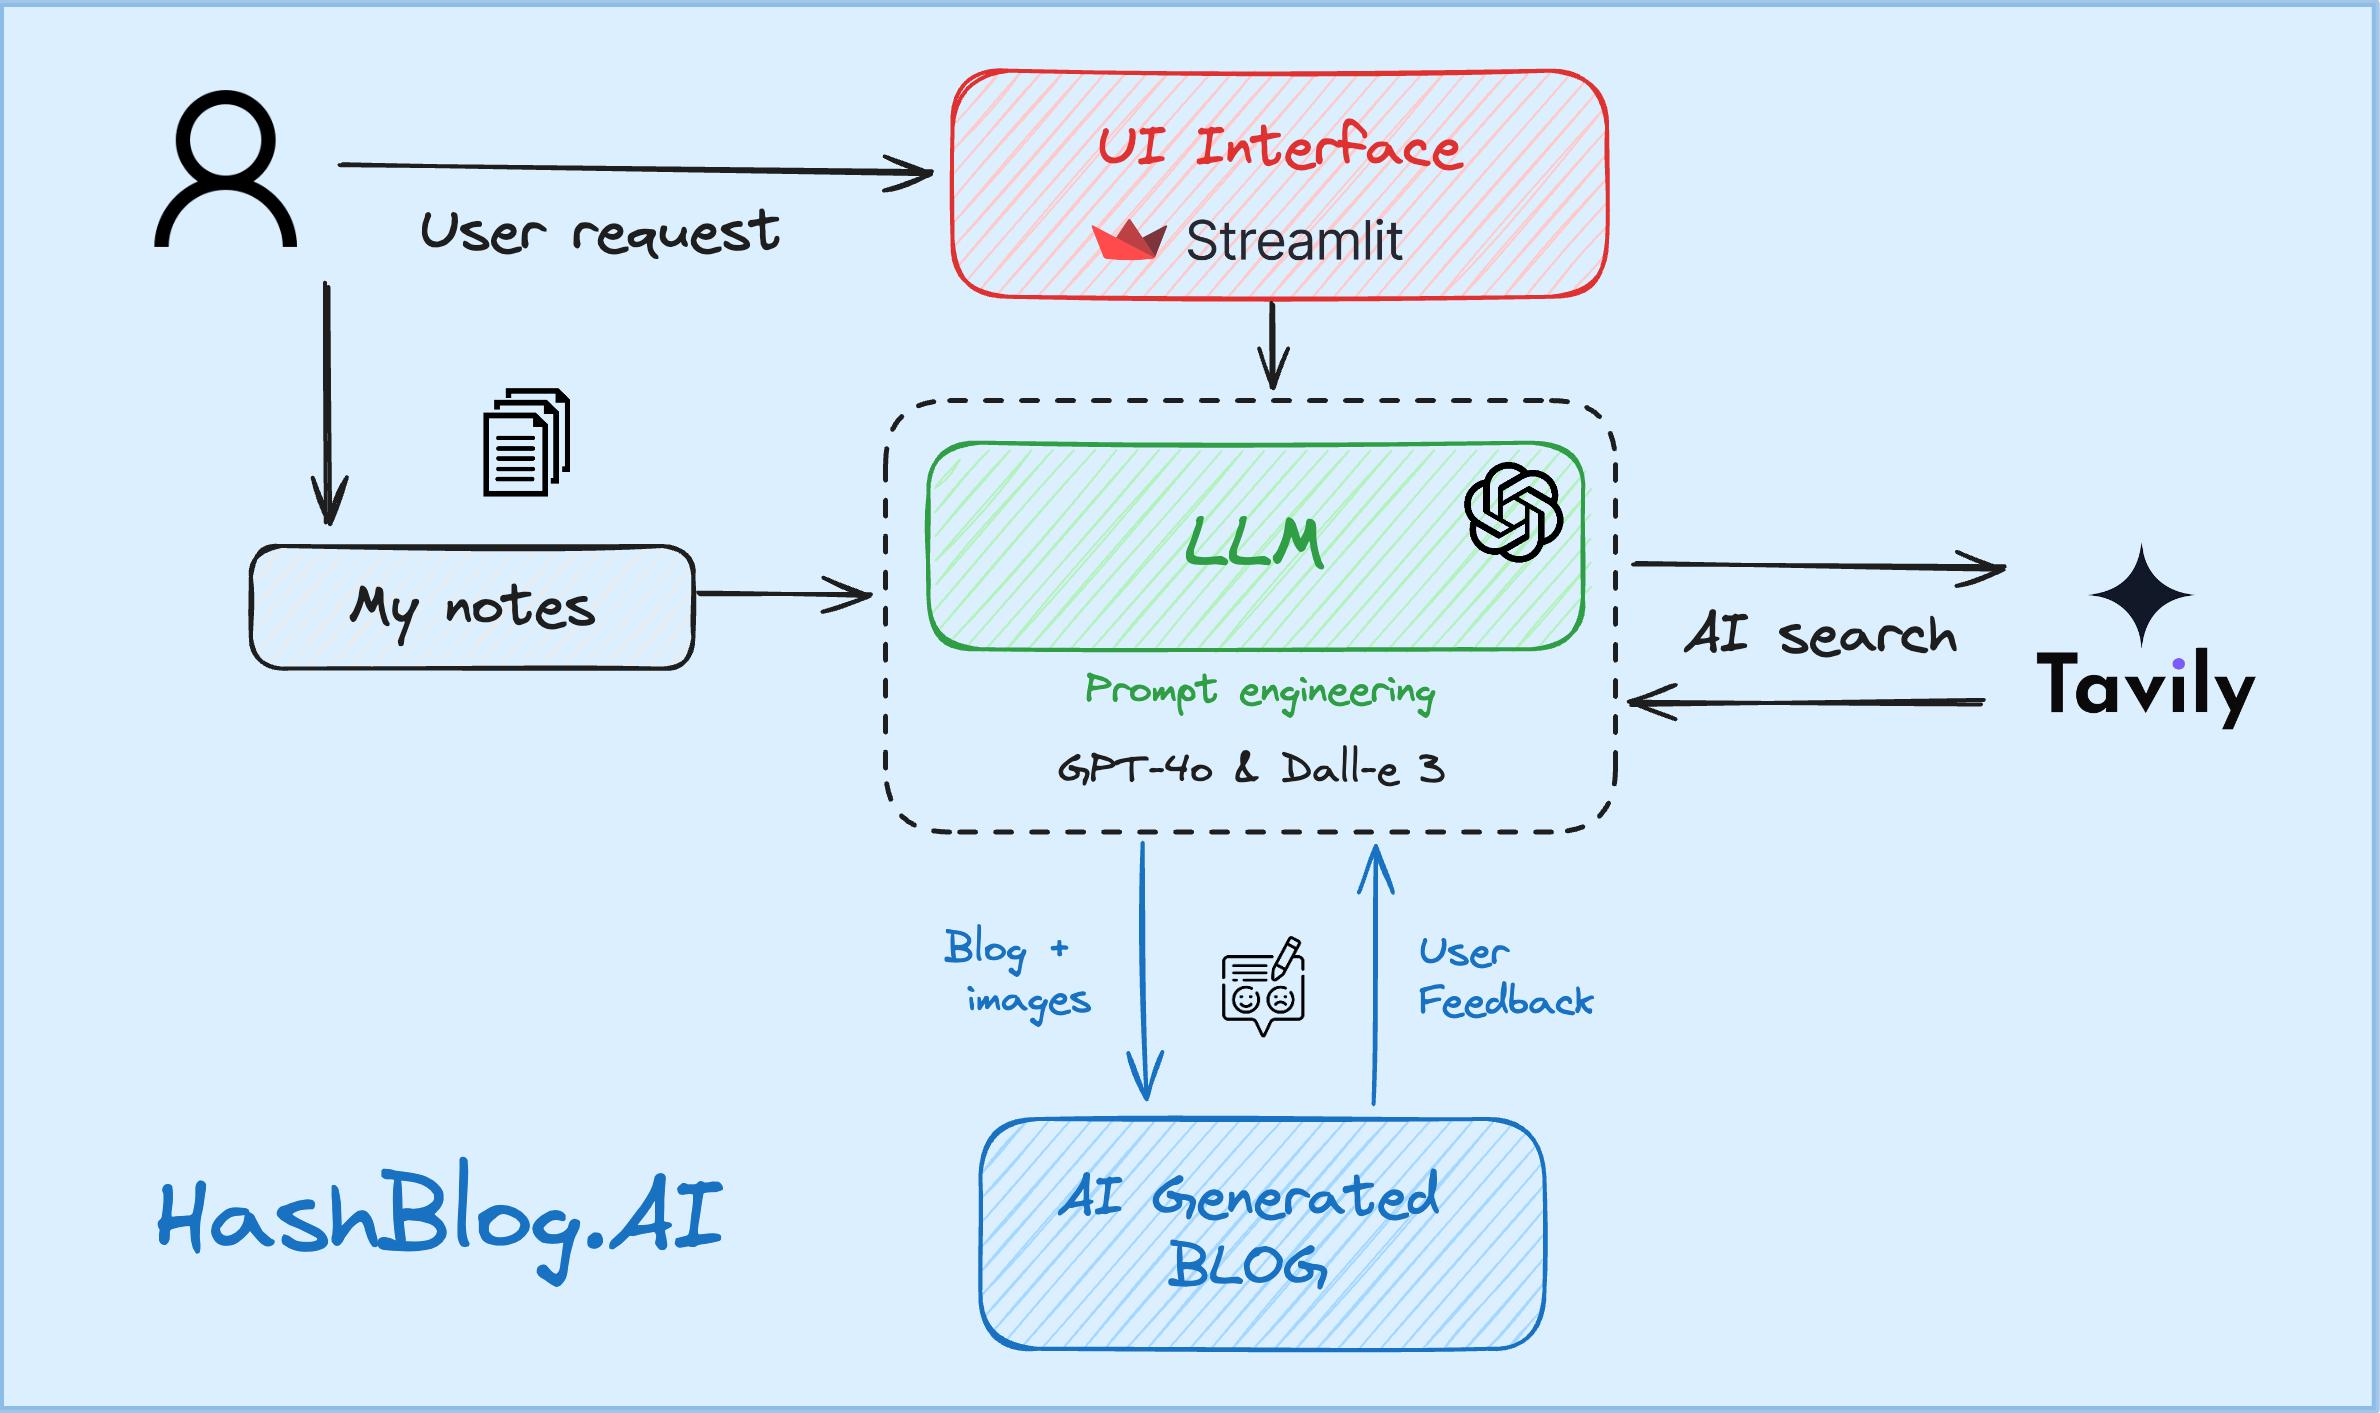
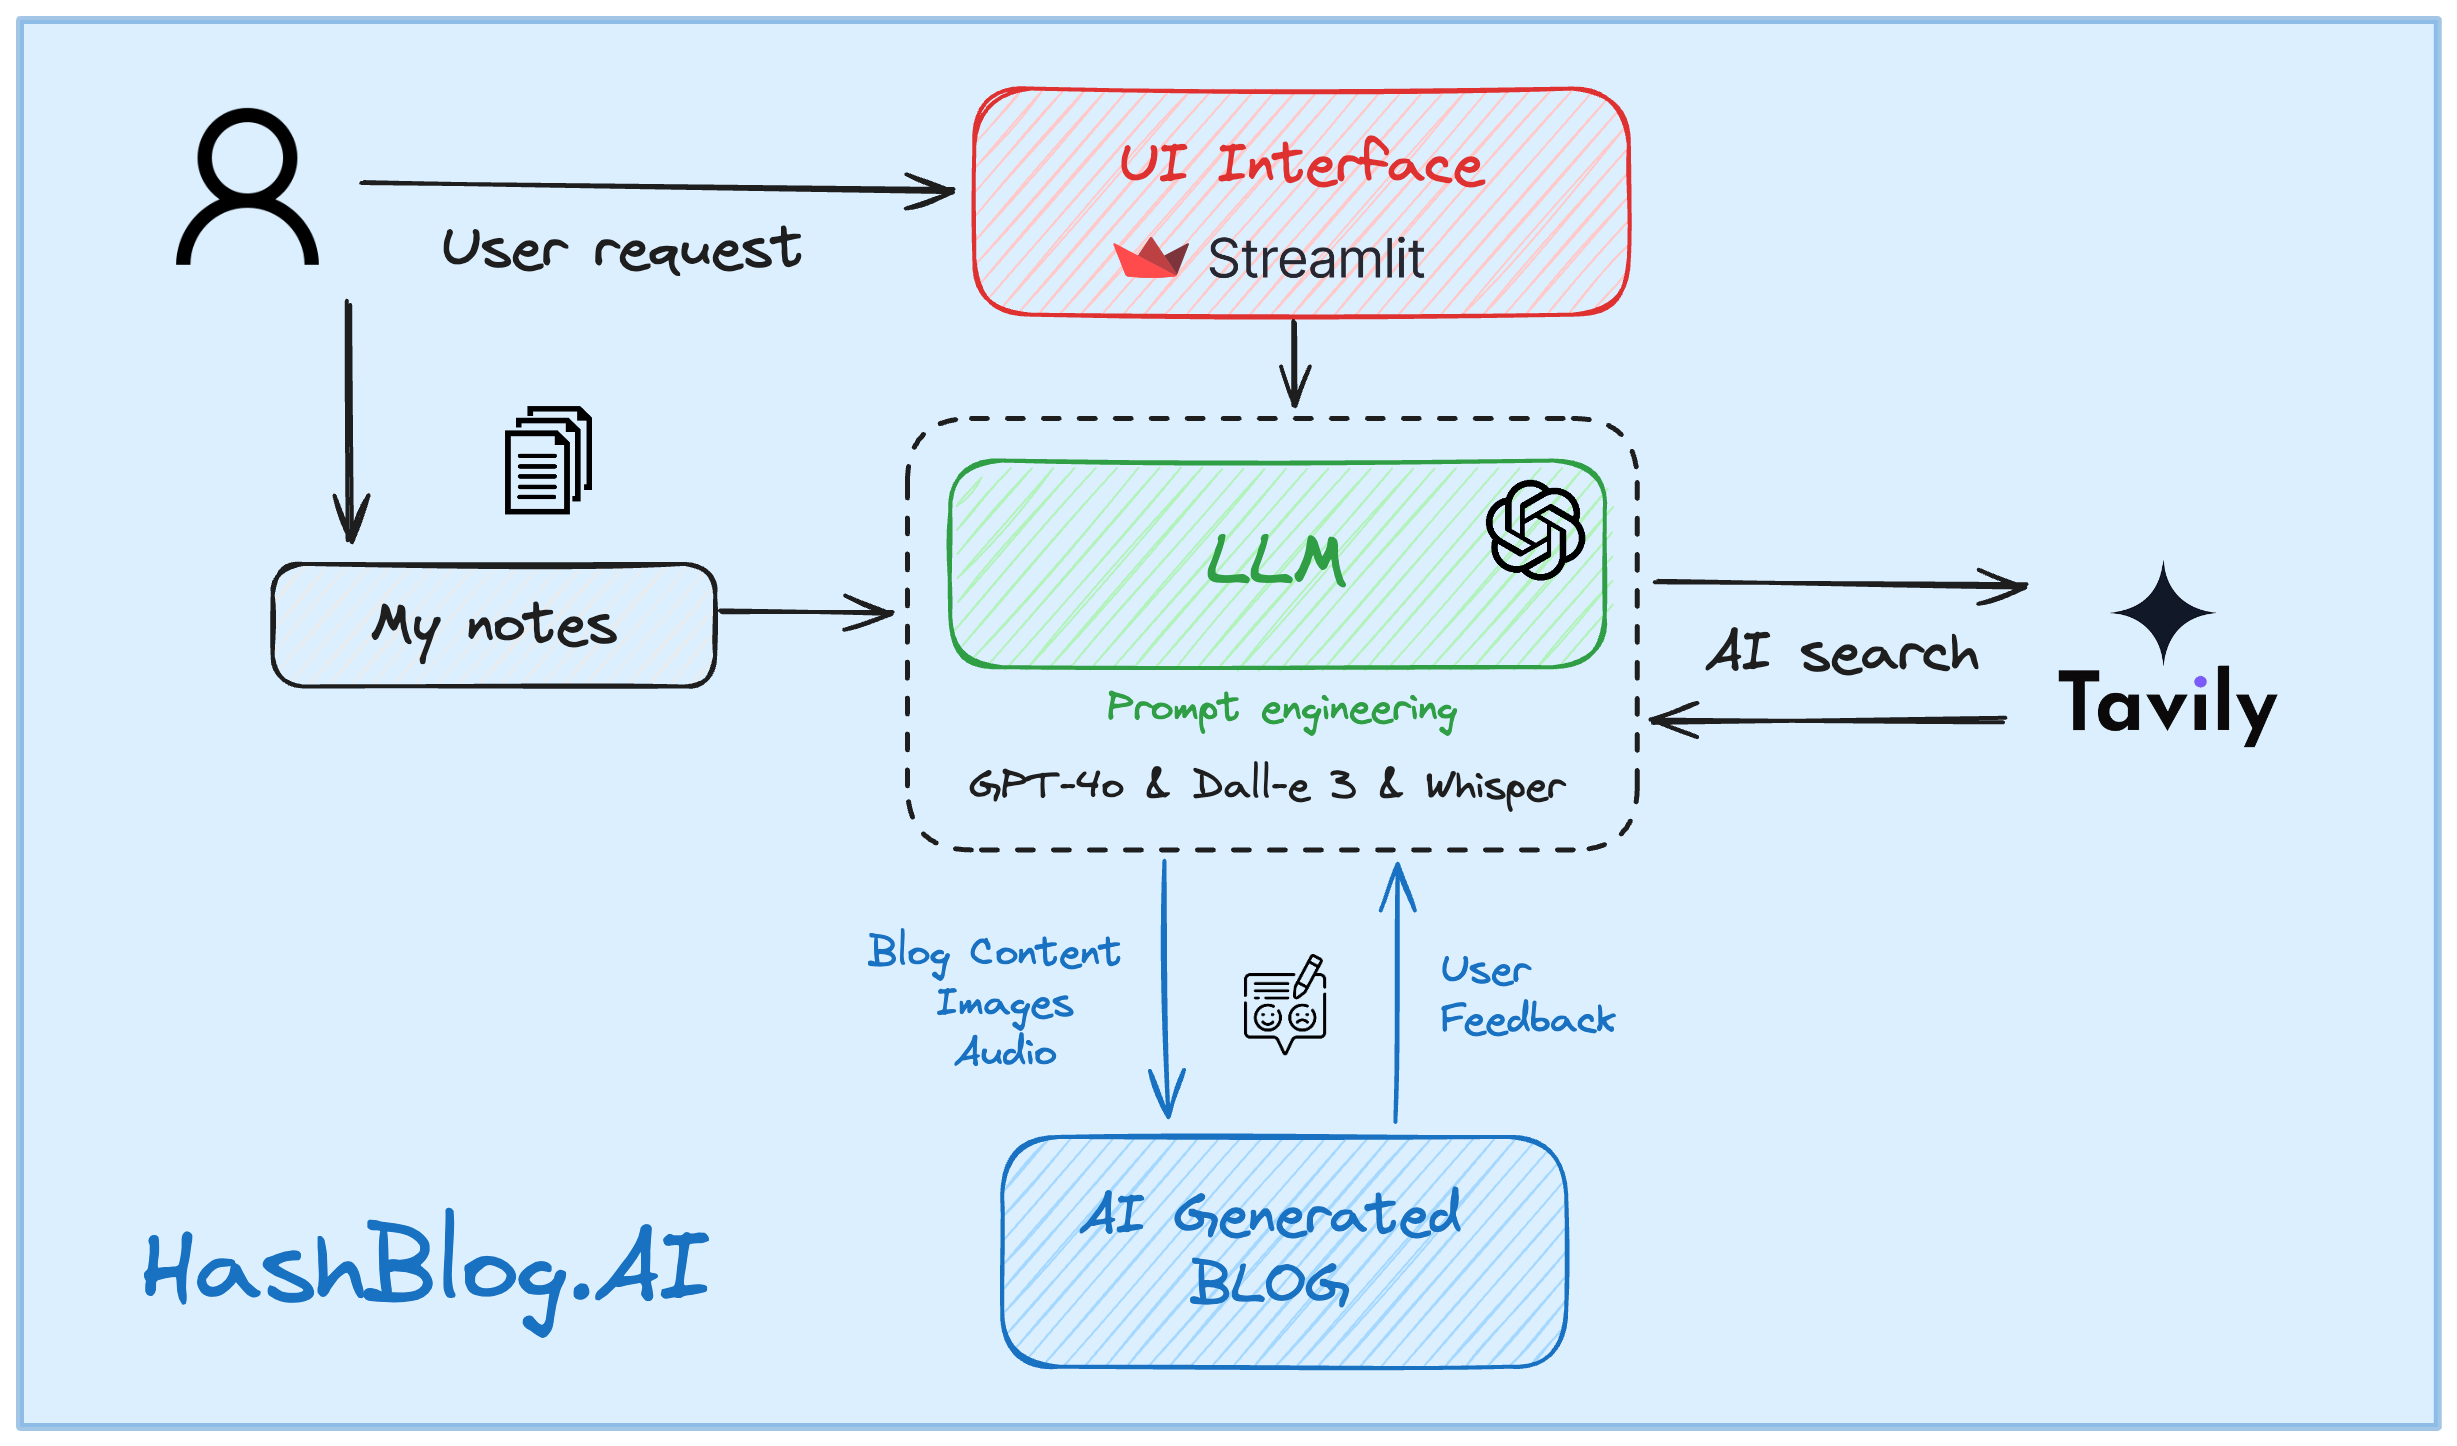
add voice blog

diff --git a/app.py b/app.py
@@ -2,31 +2,43 @@ import asyncio
 import streamlit as st
 from src.modules.model import initialise_model, llm_generate, llm_stream, generate_image
 from src.modules.search import ai_search, initialise_tavily
-from src.modules.prompt import search_query_prompt, search_blog_prompt, banner_image_prompt
-from src.components.ui import header, example_questions, regenerate_blog, upload_document
-from src.modules.utils import init_session_state, parse_content
+from src.modules.prompt import search_query_prompt, search_blog_prompt, banner_image_prompt, audio_blog_prompt
+from src.modules.utils import init_session_state, parse_content, copy_to_clipboard
+from src.modules.speech import stt, tts
+from src.components.ui import example_questions, regenerate_blog, upload_document
 from src.components.sidebar import side_info
+from streamlit_tags import st_tags
 
 def handle_search_context():
     if st.session_state.blog_content is None and st.session_state.question is None:
+        st.info("###### 👋 Welcome to HashBlogs.ai ✨ A playground to generate blog content using AI companion 🚀")
         if not st.session_state.search_context:
             if st.button("📚 Add your notes"):
                 upload_document()
         else:
             if st.button("🗑 Remove your notes"):
                 st.session_state.search_context = None
-
+        st_tags(
+            label='Enter Instructions:',
+            text='Press enter to add more instructions',
+            value=['Include tl:dr', 'Add emojis', 'Include key points', 'Use images'],
+            maxtags=20,
+            key='blog_instructions'
+        )
         question_input = st.text_area(
             "Enter your idea 👇",
-            placeholder="Type here... Eg: How to make perfect coffee?",
+            placeholder="Type here...Eg: How to make a perfect cup of coffee?",
+            help="Provide add your question or idea to generate blog content",
         )
         if question_input:
             st.session_state.question = question_input
         example_questions()
+        if voice_question_input := stt():
+            st.session_state.question = voice_question_input
 
 async def fetch_search_results():
     if st.session_state.question and st.session_state.blog_content is None and not st.session_state.search_context:
-        with st.spinner("AI is working. Please wait."):
+        with st.spinner("AI is working 🖨. Please wait..."):
             search_query = await llm_generate(search_query_prompt(st.session_state.question))
             search_results = ai_search(search_query)
         if search_results["results"]:
@@ -51,6 +63,7 @@ def display_search_context():
                     llm_stream(
                         search_blog_prompt(
                             st.session_state.question,
+                            st.session_state.blog_instructions,
                             st.session_state.search_context,
                             st.session_state.search_images,
                             st.session_state.blog_content,
@@ -62,7 +75,7 @@ def display_search_context():
                     st.session_state.blog_content_regenerate = None
                 st.rerun()
 
-def display_blog_content():
+async def display_blog_content():
     if st.session_state.blog_content:
         title, tldr = parse_content(st.session_state.blog_content)
         with st.container(height=710, border=True):
@@ -79,7 +92,7 @@ def display_blog_content():
                         st.image(st.session_state.blog_banner, use_column_width=True)
                     st.markdown(st.session_state.blog_content)
 
-            col1, col2, _ = st.columns([3, 3, 6])
+            col1, col2, _, col3 = st.columns([3, 3, 3, 3])
             if col1.button(f"📝 {'Save' if st.session_state.blog_content_edit else 'Edit'}", use_container_width=True):
                 if st.session_state.blog_content_edit:
                     st.session_state.blog_content = new_blog_content
@@ -90,17 +103,29 @@ def display_blog_content():
                     st.rerun()
             if col2.button("🔄 Re Generate", use_container_width=True, type="primary"):
                 regenerate_blog()
+            if col3.button("📋 Copy Blog", use_container_width=True):
+                copy_to_clipboard(st.session_state.blog_content)
+
+        if st.session_state.blog_audio:
+            st.audio(st.session_state.blog_audio)
+        else:
+            if st.button("🔊 Listen to Blog"):
+                with st.spinner("AI is cooking 🍱. Please wait..."):
+                    audio_script = await llm_generate(audio_blog_prompt(st.session_state.blog_content))
+                    st.session_state.blog_audio = tts(audio_script)
+                st.rerun()
+            
 
 async def main():
+    st.title("#⃣ AI.:blue[Playground]")
     init_session_state()
-    header()
     side_info()
     initialise_model()
     initialise_tavily()
     handle_search_context()
     await fetch_search_results()
     display_search_context()
-    display_blog_content()
+    await display_blog_content()
 
 if __name__ == "__main__":
     st.set_page_config(page_title="HashBlogs.ai", page_icon="✨")

diff --git a/src/modules/prompt.py b/src/modules/prompt.py
@@ -15,6 +15,19 @@ def search_query_prompt(user_query):
         )
     )
 
+def audio_blog_prompt(blog_content):
+    return (
+        SystemMessage(
+            content=f"Role: Create a summarized script like one person narrating about a blog\n"
+                    f"Task: Given a blog content convert it to monologue script\n"
+                    f"Rule: Make it human like, simple, giving complete overview of the blog in less than 4000 characters only.\n"
+        ),
+        HumanMessage(
+            content=f"Blog Content: ```{blog_content}``` .\n"
+                    f"Audio Script: "
+        )
+    )
+
 def banner_image_prompt(title, tldr):
     prompt = f"You have to create a banner image for the blog post with title {title}. The image should be engaging, creative."
     f"Here is the short summary of the blog post: {tldr}"
@@ -22,7 +35,7 @@ def banner_image_prompt(title, tldr):
     f"Dont not include any text in the image."
     return prompt
 
-def search_blog_prompt(user_query, search_result, images, blog_content=None, feedback=None):
+def search_blog_prompt(user_query, blog_instructions, search_result, images, blog_content=None, feedback=None):
     current_date = time.strftime("%Y-%m-%d")
     image_prompt = []
     if images:
@@ -47,6 +60,7 @@ def search_blog_prompt(user_query, search_result, images, blog_content=None, fee
                     "text": f"User question: ```{user_query}``` .\n"
                             f"Search result: ```{json.dumps(search_result)}```\n\n"
                             f"{'Images:'+json.dumps(images) if images else ''}\n\n"
+                            f"{'User blog instructions:'+json.dumps(blog_instructions) if blog_instructions else ''}\n\n"
                             f"Add only necessary images in the blog only if needed.\n"
                             f"Must be engaging, creative, include emojis.\n"
                             f"Blog in markdown: "

diff --git a/src/modules/speech.py b/src/modules/speech.py
@@ -1,4 +1,5 @@
 import io
+import os
 import streamlit as st
 from streamlit_mic_recorder import mic_recorder
 
@@ -24,13 +25,14 @@ def stt(key="speech-to-text"):
     if key and key + '_output' not in st.session_state:
         st.session_state[key + '_output'] = None
 
-    col1, col2, col3 = st.columns(3)
-    if st.session_state.model_api_key:
+    col1, col2, col3 = st.columns([4, 3, 4])
+    if st.session_state.openai_api_token:
         with col2:
             audio = mic_recorder(
                 start_prompt="🎙 Ask Your Question",
                 stop_prompt="🚫 Stop recording",
                 just_once=False,
+                use_container_width=True,
                 format="webm", 
                 key=key
             )
@@ -54,3 +56,19 @@ def stt(key="speech-to-text"):
         return output
 
 
+def generate_audio(text, id):
+    response = st.session_state.openai_client.audio.speech.create(
+        model="tts-1",
+        voice="nova",
+        input=text
+    )
+    output_path = f"audio/{id}.wav"
+    response.stream_to_file(output_path)
+    return output_path
+
+def tts(text, title="blog"):
+    if not os.path.exists("audio"):
+        os.makedirs("audio")
+    text = text[:4000]
+    audio_file = generate_audio(text, title)
+    return audio_file

diff --git a/src/components/ui.py b/src/components/ui.py
@@ -16,9 +16,6 @@ def display_search_result(search_results):
             for result in search_results["results"]:
                 st.write(f"- [{result['title']}]({result['url']})")
 
-def header():
-    st.title("#⃣ AI.:blue[Playground]")
-    st.info("###### 👋 Welcome to HashBlogs.ai ✨ A playground to generate blog content using AI companion 🚀")
 
 def example_questions():
     col1, col2 = st.columns(2)
@@ -26,10 +23,10 @@ def example_questions():
         "News on cricket T20 world cup 2024 final match",
         "Recent researches in the field of lung cancer"
     ]
-    if col1.button(questions[0]):
+    if col1.button(questions[0], use_container_width=True):
         st.session_state.question = questions[0]
         st.rerun()
-    if col2.button(questions[1]):
+    if col2.button(questions[1], use_container_width=True):
         st.session_state.question = questions[1]
         st.rerun()
 

diff --git a/src/modules/utils.py b/src/modules/utils.py
@@ -1,5 +1,6 @@
 import re
 import streamlit as st
+import pyperclip
 
 def init_session_state():
     state_defaults = {
@@ -9,7 +10,8 @@ def init_session_state():
         "blog_content_regenerate": None,
         "question": None,
         "search_context": None,
-        "search_images": None
+        "search_images": None,
+        "blog_audio": None,
     }
     for key, value in state_defaults.items():
         if key not in st.session_state:
@@ -21,3 +23,7 @@ def parse_content(blog_content):
     tldr_match = re.search(r"### tl;dr\s+(.*?)\s+(?=##|$)", blog_content, re.DOTALL)
     tldr = tldr_match.group(1).strip() if tldr_match else None
     return title, tldr
+
+def copy_to_clipboard(text):
+    pyperclip.copy(text)
+    st.toast("Copied to clipboard", icon="📋")

diff --git a/src/components/sidebar.py b/src/components/sidebar.py
@@ -32,11 +32,12 @@ def side_info():
         st.sidebar.selectbox("Select a model", list(model_options.keys()), key="model_name")
         with st.popover("More settings", use_container_width=True):
             st.slider(
-                "Temperature", min_value=0.0, max_value=2.0, step=0.1, value=0.1, key="temperature"
+                "Creative Temperature", min_value=0.0, max_value=2.0, step=0.1, value=0.1, key="temperature"
             )
             st.slider(
                 "Max Tokens", min_value=0, max_value=8000, value=2500, key="max_tokens"
             )
 
         st.markdown("---")
+        st.image("src/assets/openai.png")
         st.link_button("🔗 Source Code", "https://github.com/SSK-14/HashBlogs.AI", use_container_width=True)

diff --git a/src/modules/model.py b/src/modules/model.py
@@ -3,8 +3,8 @@ from langchain_openai import ChatOpenAI
 from openai import OpenAI
 
 model_options = {
-    "GPT-4o": "gpt-4o",
     "GPT-4o mini": "gpt-4o-mini",
+    "GPT-4o": "gpt-4o",
     "GPT-4": "gpt-4",
 }
 
@@ -18,7 +18,7 @@ def initialise_model():
         st.warning('Please provide OpenAI API key in the sidebar.', icon="⚠")
         st.stop()
     st.session_state.llm = ChatOpenAI(
-        model=model_options[st.session_state.model_name] or "gpt-4o",
+        model=model_options[st.session_state.model_name] or "gpt-4o-mini",
         temperature=st.session_state.temperature or 0.1,
         max_tokens=st.session_state.max_tokens or 2500,
         api_key=st.session_state.openai_api_token
